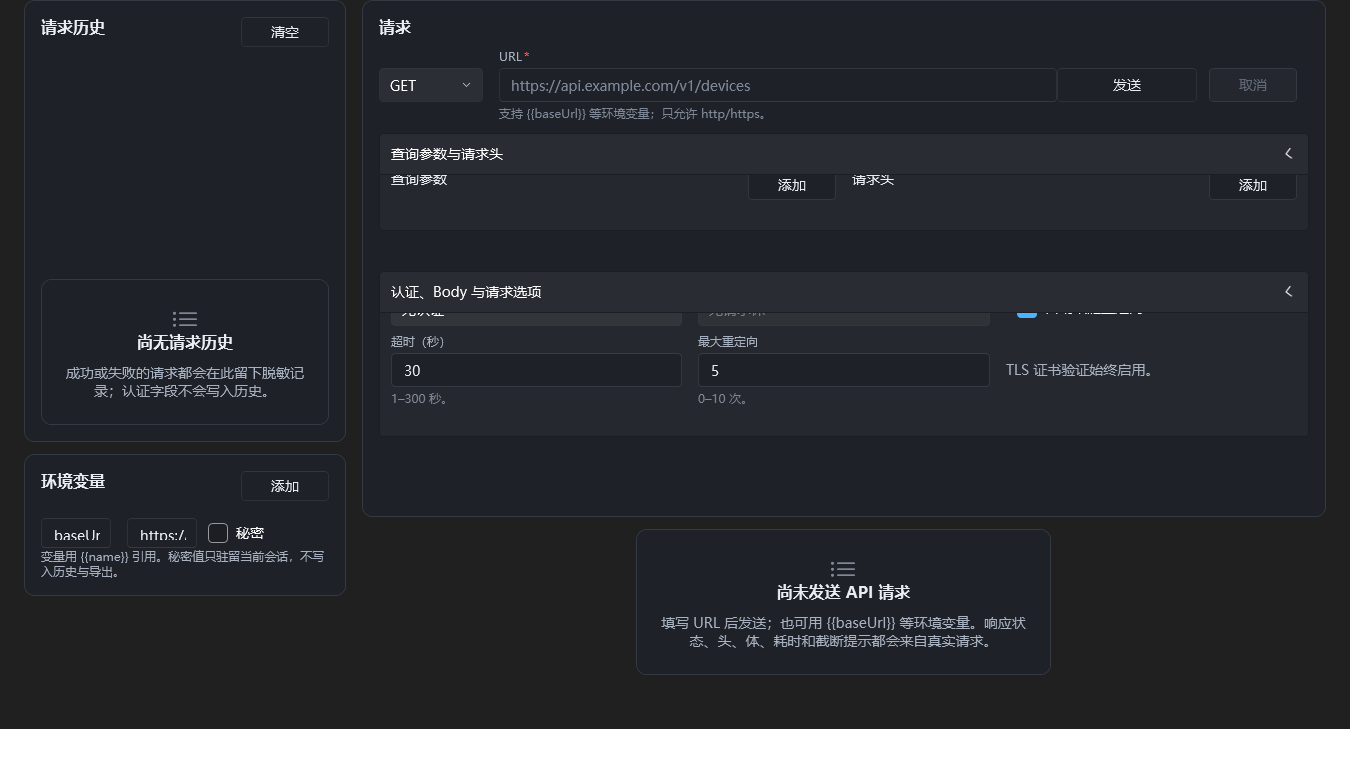
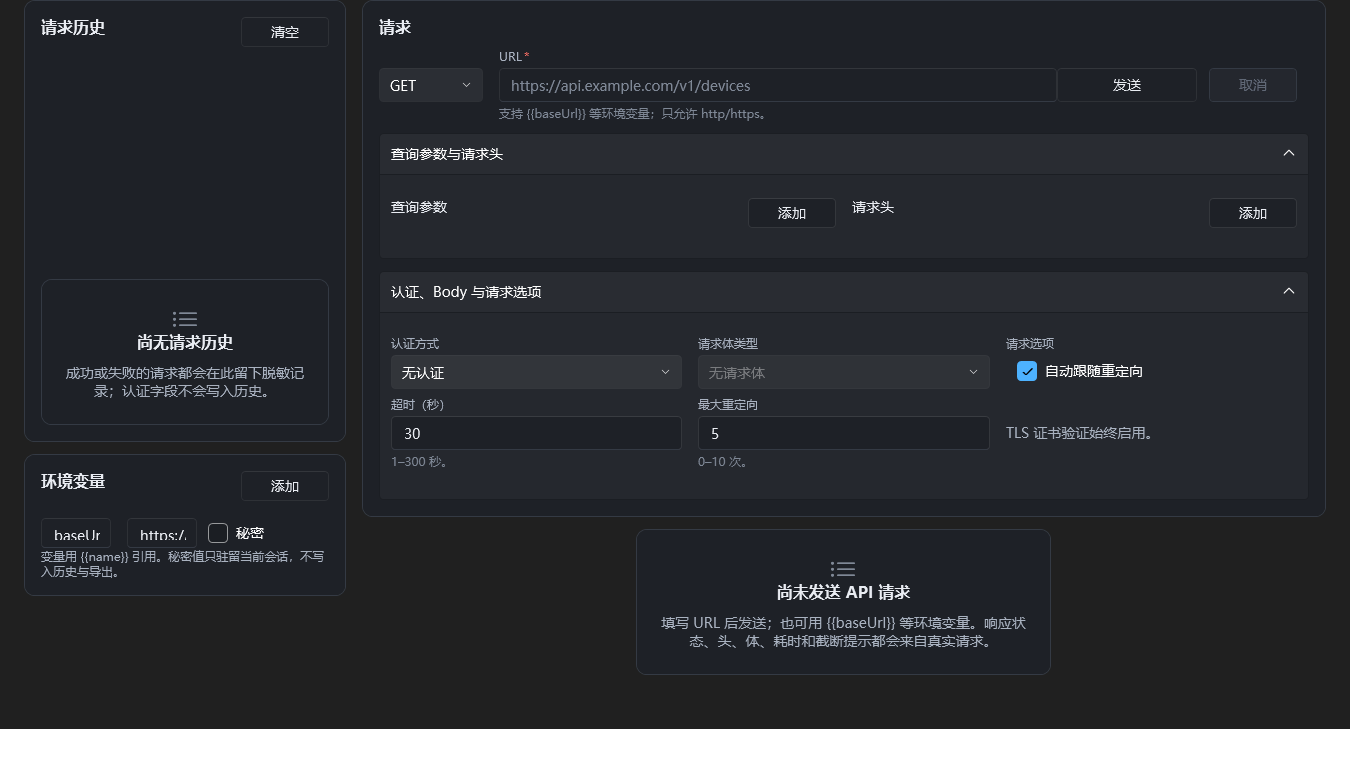
fix(ui): 等待 API 页展开动画完成后再截屏

diff --git a/tests/LinkForge.App.Tests/Controls/ApiWorkbenchPageTests.cs b/tests/LinkForge.App.Tests/Controls/ApiWorkbenchPageTests.cs
@@ -153,6 +153,8 @@ public class ApiWorkbenchPageTests
         window.Show();
         Pump();
         Layout(window);
+        WaitForExpanderAnimations();
+        Layout(window);
 
         var bitmap = new RenderTargetBitmap(
             ReferenceWidth,
@@ -192,6 +194,18 @@ public class ApiWorkbenchPageTests
             System.Windows.Threading.Dispatcher.CurrentDispatcher.Invoke(
                 System.Windows.Threading.DispatcherPriority.Background,
                 new Action(() => { }));
+        }
+    }
+
+    private static void WaitForExpanderAnimations()
+    {
+        // WPF-UI 的 Expander 在首次展开时使用时间驱动的动画。
+        // 只清空 Dispatcher 队列不会推进动画时钟，截屏会抓到内容仍被裁切的一帧。
+        var deadline = DateTime.UtcNow + TimeSpan.FromMilliseconds(900);
+        while (DateTime.UtcNow < deadline)
+        {
+            Pump();
+            Thread.Sleep(16);
         }
     }
 
